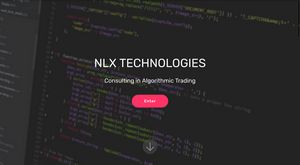
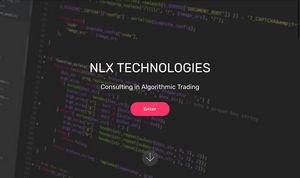
udpate text

diff --git a/index.html b/index.html
@@ -53,7 +53,7 @@
                 <h1 class="mbr-section-title mbr-bold pb-3 mbr-fonts-style display-2"><span style="font-weight: normal;">NLX TECHNOLOGIES</span></h1>
                 
                 <p class="mbr-text pb-3 mbr-fonts-style display-5">
-                    Consulting in Algorithmic Trading</p>
+                    Consulting in Algorithmic Trading<br></p>
                 <div class="mbr-section-btn"><a class="btn btn-md btn-secondary display-4" href="index.html#testimonials5-23">Enter</a></div>
             </div>
         </div>
@@ -104,7 +104,7 @@
 
     <div class="container">
         <div class="media-container-row">
-            <div class="mbr-text col-12 mbr-fonts-style display-7 col-md-10"><p>Commodity Trading Advisor specialized in the arbitrage of US equity index futures markets during night sessions. In parallel, I offer consulting services in financial trading for individuals, wealth managers and institutions.</p></div>
+            <div class="mbr-text col-12 mbr-fonts-style display-7 col-md-10"><p>Commodity Trading Advisor specialized in the arbitrage of US equity index futures markets during night sessions. I have designed and managed several trading strategies for well-known CTAs and Portfolio Managers.</p><p><span style="font-size: 1rem;">I offer consulting services in financial trading for individuals, wealth managers and institutions.</span><br></p></div>
         </div>
     </div>
 </section>
@@ -116,7 +116,7 @@
         <div class="media-container-row">
             <div class="mbr-text counter-container col-12 col-md-8 mbr-fonts-style display-7">
                 <ul>
-                    <li>Portfolio design</li><li>Analytics and coding</li><li>Converting Excel files into efficient R-app</li><li>Creating graphical dashboards and website</li>
+                    <li>Portfolio design</li><li>Analytics and coding</li><li>Converting Excel files into efficient R-app</li><li>Creating graphical dashboard</li><li>Website</li>
                 </ul>
             </div>
         </div>
@@ -131,7 +131,7 @@
         <div class="media-container-row">
             <div class="title col-12 col-md-8">
                 <h2 class="align-center pb-3 mbr-fonts-style display-2">Dynamic Portfolio Analysis</h2>
-                <h3 class="mbr-section-subtitle align-center mbr-light mbr-fonts-style display-5">Portfolios sample that adjust dynamically to settings in order to better understand their return/risk profile.</h3>
+                <h3 class="mbr-section-subtitle align-center mbr-light mbr-fonts-style display-5">Portfolio samples that adjust dynamically to settings in order to better understand their return/risk profile.</h3>
                 
             </div>
         </div>
@@ -235,7 +235,7 @@
         <div class="row justify-content-center">
             <div class="media-container-column col-lg-8" data-form-type="formoid">
                 <!---Formbuilder Form--->
-                <form action="https://mobirise.com/" method="POST" class="mbr-form form-with-styler" data-form-title="Mobirise Form"><input type="hidden" name="email" data-form-email="true" value="Z0iFJ//9GAQ3/1d8m7EjrAQIBr702VK0AehLq8zouIKHPO6H4wjDaj8H65SCHHGcRPBWhrZ4jG4/T5JHXSTcqohkPnm1KUDxkinOUbnXpzhOcs9OTz+fFMIods4exaE6.vmOq0fpcmDooSQS29GaDnPET6ASGNNCCg/6odyjZXqWpJZS1OIoOC++q2IgBQZF+JG9Xsdai6p+on6nlogtl9legl95avKoXWNciGercqojCi63/gVptc69TbZ8/3Oq8">
+                <form action="https://mobirise.com/" method="POST" class="mbr-form form-with-styler" data-form-title="Mobirise Form"><input type="hidden" name="email" data-form-email="true" value="o4d5lDHWkBoYu1Wl9egK4ZF2n3nOrjvAhMkr7dUwyEWy1nm1QfZj8ZVCA3HwEVVhm91xghFvYLt12OGL+rYeJByTsCh+vWwQXDAVTueD0dVGNxbbw/3u3yl4MsPCGExC.3Mnn6BrQHACXmZprQ93BoT8NMjIBUq+lWuA3U1BDYKFuxr7A/EtfgR/LXVciM+iNUkE/W6zJIZpb//bH6nZcNfB62G8fkTXJtFnQ+CNudE5+msEK+E+0yLhWP4eVC3Ey">
                     <div class="row">
                         <div hidden="hidden" data-form-alert="" class="alert alert-success col-12">Thanks for filling out the form!</div>
                         <div hidden="hidden" data-form-alert-danger="" class="alert alert-danger col-12">

diff --git a/assets/mobirise/css/mbr-additional.css b/assets/mobirise/css/mbr-additional.css
@@ -840,6 +840,7 @@ section.lazy-placeholder:after {
 .cid-rE21BvKXcE .card-title,
 .cid-rE21BvKXcE .card-img {
   color: #232323;
+  text-align: center;
 }
 .cid-rEjr9JIYq0 {
   padding-top: 90px;
